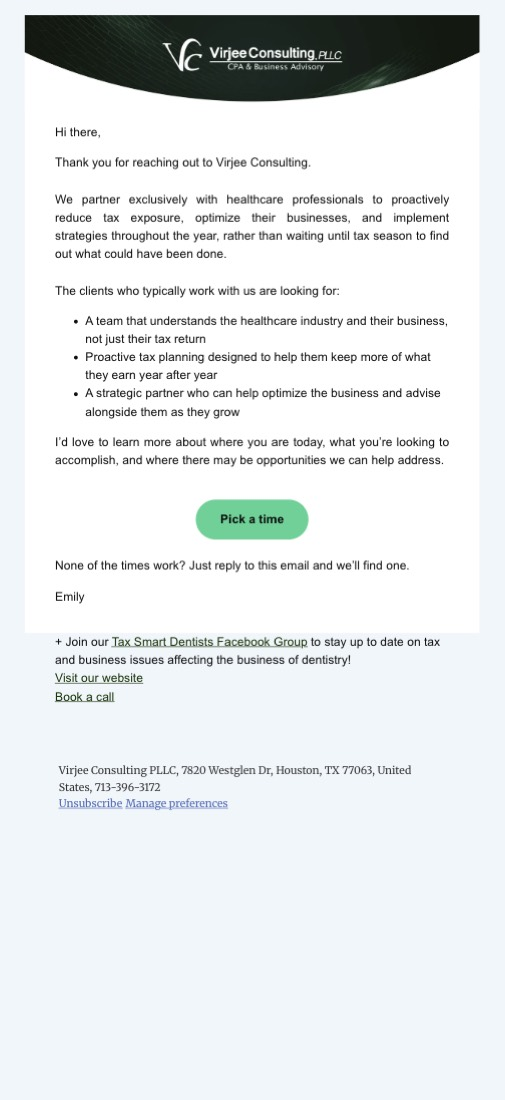
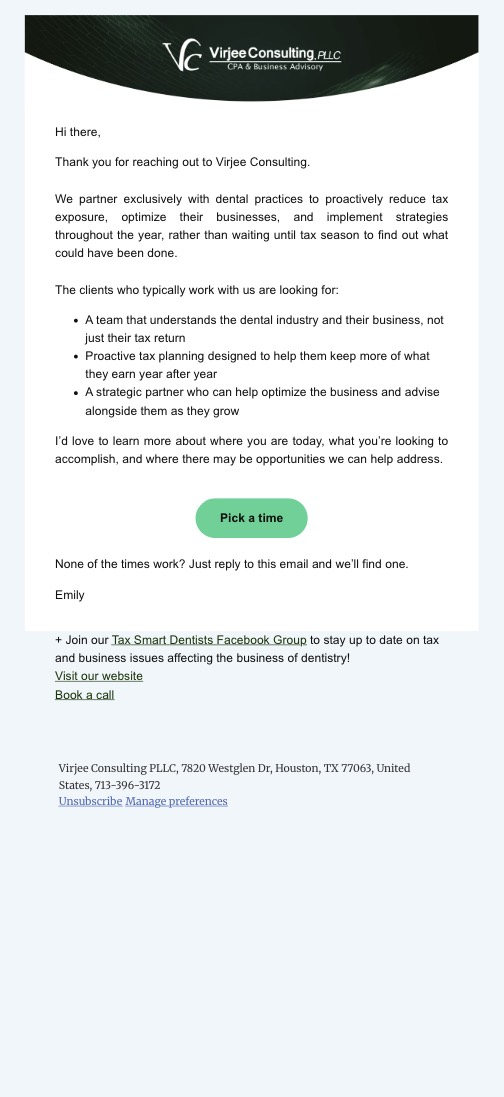
Virjee nurture map: Dr. Delaney email in dental + medical branches, subject fixes

diff --git a/virjee-consulting-dental/nurture-funnels/index.html b/virjee-consulting-dental/nurture-funnels/index.html
@@ -81,7 +81,7 @@ footer{color:var(--grey);font-size:13px;padding:30px 0 40px}
 <div class="stats">
 <div class="stat"><b>8</b><span>journeys switched on</span></div>
 <div class="stat"><b>3</b><span>built but switched off</span></div>
-<div class="stat"><b>40</b><span>emails shown</span></div>
+<div class="stat"><b>42</b><span>emails shown</span></div>
 <div class="stat gapc"><b>6</b><span>places people get nothing</span></div>
 </div>
 </div></div>
@@ -114,22 +114,23 @@ footer{color:var(--grey);font-size:13px;padding:30px 0 40px}
 <h2 class="group" id="gaps">Where people get nothing</h2>
 <div class="gaps">
 <div class="gapbox"><h3>1. Webinar registrants after the replay</h3><p>The Sept 30 replay went to 59 people. Nothing follows it, so a registrant who didn't book hears nothing until the next invite.</p><p class="fix">Fix: a short follow-up after each replay (one idea from the webinar, then a book-a-call email).</p></div>
-<div class="gapbox"><h3>2. Practice buyers</h3><p>The 4-email buying series is switched off. A buyer who fills in the form gets the general owner or startup emails instead, and only if they book.</p><p class="fix">Fix: turn on the buying series. It needs the empty table in email #2 fixed first.</p></div>
+<div class="gapbox"><h3>2. Practice buyers</h3><p>The 4-email buying series is switched off. Buyers are never offered a call, so a buyer who doesn't book gets nothing.</p><p class="fix">Agreed: turn it on as soon as the empty table in email #2 is fixed.</p></div>
 <div class="gapbox"><h3>3. Valuation calculator users</h3><p>Their first email thanks them for joining the mailing list. No email mentions their valuation or what to do with the number.</p><p class="fix">Fix: a first email about their result and a written valuation, then the existing series.</p></div>
 <div class="gapbox"><h3>4. After any series ends</h3><p>Every journey stops after its last email. The Law series even promises "our regular newsletter", but no newsletter is set up in HubSpot.</p><p class="fix">Fix: add everyone who finishes a series to a monthly newsletter list.</p></div>
-<div class="gapbox"><h3>5. Medical contacts</h3><p>The medical welcome is off, and a medical owner who books gets 2 emails where a dental owner gets 3.</p><p class="fix">Decision for Omar: keep nurturing medical leads, or leave them with Emily only.</p></div>
+<div class="gapbox"><h3>5. Medical contacts who don't book</h3><p>The medical welcome stays off on purpose. Medical owners and startups who book now get 3 emails, including Dr. Delaney's video, the same as dental owners.</p><p class="fix">Decided: leave the medical welcome off.</p></div>
 <div class="gapbox"><h3>6. Form filled, no call booked</h3><p>Emily's 4-email Book a Call follow-up catches these people once a deal is created. The 1-hour reminder we built is off so the two don't double up.</p><p class="fix">Decision for Omar and Emily: keep Emily's sequence alone, or add the 1-hour reminder in front of it.</p></div>
 </div>
 
-<h2 class="group">Copy to fix in emails that are live now</h2>
+<h2 class="group">Copy fixes in live emails</h2>
 <div class="scroll"><table class="copy">
-<tr><th>Email</th><th>What it says</th><th>Change</th></tr>
-<tr><td>Welcome - Local #1</td><td>"We'll be in touch within 24 hours"</td><td>Remove the time promise: "Someone from our team will reach out to set up a call."</td></tr>
-<tr><td>Booked - Medical owner #1</td><td>"our team (who work exclusively with dentists)"</td><td>Say "medical practices" or drop the line.</td></tr>
-<tr><td>Book a Call #1 (Emily)</td><td>"We partner exclusively with healthcare professionals"</td><td>Dental leads read this as "not dental-only". Say "dental practices".</td></tr>
-<tr><td>Book a Call #1 to #4 (Emily)</td><td>All four have the same subject line</td><td>Give each one its own subject so the later ones get opened.</td></tr>
-<tr><td>Booking nudge - No-Show</td><td>Subject "You're one step from booking your call" on an email about a missed call</td><td>Subject: "Sorry we missed you. Want to pick a new time?"</td></tr>
-<tr><td>Welcome - Vet #2</td><td>Subject says "for medical professionals"</td><td>Change to "for veterinarians".</td></tr>
+<tr><th>Email</th><th>What it said</th><th>Change</th><th>Status</th></tr>
+<tr><td>Welcome - Local #1</td><td>"We'll be in touch within 24 hours"</td><td>Remove the time promise: "Someone from our team will reach out to set up a call."</td><td>To do</td></tr>
+<tr><td>Booked - Medical owner #1</td><td>"our team (who work exclusively with dentists)"</td><td>Say "medical practices" or drop the line.</td><td>To do</td></tr>
+<tr><td>Book a Call #1 (Emily)</td><td>"We partner exclusively with healthcare professionals"</td><td>Now says "dental practices" and "dental industry".</td><td>Done</td></tr>
+<tr><td>Book a Call #1 to #4 (Emily)</td><td>All four have the same subject line</td><td>Now "Your call with Virjee Consulting", "Want a hand with your practice’s tax plan?", "Checking in about your call", "Should I close out your file?"</td><td>Done</td></tr>
+<tr><td>Booking nudge - No-Show</td><td>Subject "You're one step from booking your call" on an email about a missed call</td><td>Subject is now "Sorry we missed you. Want to pick a new time?"</td><td>Done</td></tr>
+<tr><td>Booked - Dental owner #3 (Dr. Delaney)</td><td>Video was a bare link; reviews line had no link</td><td>Video thumbnail, video link and Google reviews link added. Same email now sent to medical owners and startups.</td><td>Done</td></tr>
+<tr><td>Welcome - Vet #2</td><td>Subject says "for medical professionals"</td><td>Subject now says "for veterinarians".</td><td>Done</td></tr>
 </table></div>
 
 <footer>Prepared by Markology for Virjee Consulting, October 15, 2026. Source: Virjee HubSpot workflows and marketing emails, read live. Not shown: internal notifications, deal and owner automations, and contact-cleanup workflows.</footer>
@@ -142,13 +143,13 @@ const E={
 '397048978118':'Your call is booked ✅ Here’s what to expect','397048978121':'Dentist Hit with $75K Tax Bill: 5 Strategies We Used to Eliminate It','397048978124':'Dr. Sean Delaney, MD recorded this for you','397048978127':'📅 Your call is booked — Here’s what to expect','397055897326':'💡How one startup owner reduced $22,000 in taxes','397048978131':'Your call is booked ✅ Here’s what to expect','397048978134':'💡How a 1099 associate saved $18,000 in taxes','397055897331':'Your call is booked ✅ Here’s what to expect','397048978138':'Physician Hit with $75K Tax Bill: 5 Strategies We Used to Eliminate It','397048978141':'📅 Your call is booked — Here’s what to expect','397048978144':'💡How one startup owner reduced $22,000 in taxes',
 '397048979143':'Here’s Your Download! 👇','397048979147':'We’re glad you’re here! 👋','397065899725':'Which KPIs Should You Be Tracking? 🎥','397048979154':'How Much Is Your Dental Practice Worth?','397048979157':'How Can We Help?','397048979160':'7 Legal Tax Loopholes To Reduce Your Taxes 💸',
 '397055898307':'We’re glad you’re here','397065899708':'The biggest IOLTA accounting mistakes we see…','397048978157':'How to build a million-dollar Roth (yes, even as a high earner)','397065899712':'Can your next vacation be a tax write-off? 🏝',
-'397065899721':'We’re glad you’re here','397048979133':'7 legal tax loopholes for medical professionals 🩺','397048979137':'How to build a million-dollar Roth (yes, it’s possible) 💸','397065899715':'We look forward to chatting! 👋',
-'403053614800':'Virjee Consulting - Book a Call','403054161621':'Virjee Consulting - Book a Call','403053747908':'Virjee Consulting - Book a Call','403053616834':'Virjee Consulting - Book a Call','402953081532':'You’re one step from booking your call',
+'397065899721':'We’re glad you’re here','397048979133':'7 legal tax loopholes for veterinarians 🩺','397048979137':'How to build a million-dollar Roth (yes, it’s possible) 💸','397065899715':'We look forward to chatting! 👋',
+'403053614800':'Your call with Virjee Consulting','403054161621':'Want a hand with your practice’s tax plan?','403053747908':'Checking in about your call','403053616834':'Should I close out your file?','402953081532':'Sorry we missed you. Want to pick a new time?',
 '402122732231':'You’re one step from booking your call','397048978147':'🛑 Don’t buy a practice before watching this','397055897337':'How one dentist added $250k in equity','397055898300':'The most important metric when buying a practice','397055898304':'3 expensive mistakes we see buyers make',
 '397048978163':'We’re glad you’re here','397048978167':'7 legal tax loopholes for medical professionals 🩺','397065899718':'How to build a million-dollar Roth (yes, it’s possible) 💸',
-'401109556966':'This Wednesday: 7 tax rules to act on before Dec 31','407913808600':'Your replay: the 7 tax rules to act on before Dec 31'};
-const N={'397048978118':'Booked - Dental owner #1','397048978121':'Booked - Dental owner #2','397048978124':'Booked - Dental owner #3','397048978127':'Booked - Dental startup #1','397055897326':'Booked - Dental startup #2','397048978131':'Booked - 1099 associate #1','397048978134':'Booked - 1099 associate #2','397055897331':'Booked - Medical owner #1','397048978138':'Booked - Medical owner #2','397048978141':'Booked - Medical startup #1','397048978144':'Booked - Medical startup #2','397048979143':'eBook download #1','397048979147':'eBook nurture #1','397065899725':'eBook nurture #2','397048979154':'eBook nurture #3','397048979157':'eBook nurture #4','397048979160':'Valuation calculator #3','397055898307':'Welcome - Law #1','397065899708':'Welcome - Law #2','397048978157':'Welcome - Law #3','397065899712':'Welcome - Law #4','397065899721':'Welcome - Vet #1','397048979133':'Welcome - Vet #2','397048979137':'Welcome - Vet #3','397065899715':'Welcome - Local #1','403053614800':'Book a Call #1 (Emily)','403054161621':'Book a Call #2 (Emily)','403053747908':'Book a Call #3 (Emily)','403053616834':'Book a Call #4, last one (Emily)','402953081532':'Booking nudge - No-Show','402122732231':'Booking nudge - form, no call','397048978147':'Buying a practice #1','397055897337':'Buying a practice #2','397055898300':'Buying a practice #3','397055898304':'Buying a practice #4','397048978163':'Welcome - Medical #1','397048978167':'Welcome - Medical #2','397065899718':'Welcome - Medical #3','401109556966':'Sept 30 webinar invite','407913808600':'Sept 30 webinar replay'};
-const F={'397055897331':'Says "work exclusively with dentists" to a medical owner','403053614800':'Says "healthcare professionals" to dental leads','402953081532':'Subject doesn’t match a missed-call email','397065899715':'Promises a reply "within 24 hours"','397048979133':'Subject says "medical professionals" to vets','397055897337':'Comparison table shows no numbers','397065899712':'Promises a newsletter that isn’t set up','397048979147':'Valuation users get "thanks for joining our mailing list"'};
+'410836683477':'Dr. Sean Delaney, MD recorded this for you','410835841776':'Dr. Sean Delaney, MD recorded this for you','401109556966':'This Wednesday: 7 tax rules to act on before Dec 31','407913808600':'Your replay: the 7 tax rules to act on before Dec 31'};
+const N={'397048978118':'Booked - Dental owner #1','397048978121':'Booked - Dental owner #2','397048978124':'Booked - Dental owner #3','397048978127':'Booked - Dental startup #1','397055897326':'Booked - Dental startup #2','397048978131':'Booked - 1099 associate #1','397048978134':'Booked - 1099 associate #2','397055897331':'Booked - Medical owner #1','397048978138':'Booked - Medical owner #2','397048978141':'Booked - Medical startup #1','397048978144':'Booked - Medical startup #2','397048979143':'eBook download #1','397048979147':'eBook nurture #1','397065899725':'eBook nurture #2','397048979154':'eBook nurture #3','397048979157':'eBook nurture #4','397048979160':'Valuation calculator #3','397055898307':'Welcome - Law #1','397065899708':'Welcome - Law #2','397048978157':'Welcome - Law #3','397065899712':'Welcome - Law #4','397065899721':'Welcome - Vet #1','397048979133':'Welcome - Vet #2','397048979137':'Welcome - Vet #3','397065899715':'Welcome - Local #1','403053614800':'Book a Call #1 (Emily)','403054161621':'Book a Call #2 (Emily)','403053747908':'Book a Call #3 (Emily)','403053616834':'Book a Call #4, last one (Emily)','402953081532':'Booking nudge - No-Show','402122732231':'Booking nudge - form, no call','397048978147':'Buying a practice #1','397055897337':'Buying a practice #2','397055898300':'Buying a practice #3','397055898304':'Buying a practice #4','397048978163':'Welcome - Medical #1','397048978167':'Welcome - Medical #2','397065899718':'Welcome - Medical #3','410836683477':'Booked - Medical #3 (Dr. Delaney)','410835841776':'Booked - Dental owner #3 (Dr. Delaney)','401109556966':'Sept 30 webinar invite','407913808600':'Sept 30 webinar replay'};
+const F={'397055897331':'Says "work exclusively with dentists" to a medical owner','397065899715':'Promises a reply "within 24 hours"','397055897337':'Comparison table shows no numbers','397065899712':'Promises a newsletter that isn’t set up','397048979147':'Valuation users get "thanks for joining our mailing list"'};
 
 function card(id,when){const f=F[id]?`<span class="flag">${F[id]}</span>`:'';
 return `<div class="step"><span class="dot"></span><span class="when">${when}</span><button type="button" class="card" data-id="${id}"><div class="thumb"><img loading="lazy" src="img/${id}.jpg" alt="${N[id]} email preview"></div><div class="subj">${E[id]}<small>${N[id]}</small>${f}</div></button></div>`}
@@ -158,11 +159,11 @@ const pill=o.status==='on'?'<span class="pill on">Live</span>':o.status==='manua
 return `<section class="lane${o.status==='off'?' off':''}" id="${o.id}"><div class="lanehead"><h3>${o.title}</h3>${pill}</div><div class="trigger"><b>Who gets it:</b> ${o.who}</div>${steps}</section>`}
 
 const booked=[{id:'booked',title:'Books a call',status:'on',who:'Anyone who books a meeting in HubSpot. 20 people enrolled so far, 17 in the last 7 days.',branches:[
-{label:'Dental owner',note:'everyone not matched below',steps:[['397048978118','Day 0'],['397048978121','Day 1'],['397048978124','Day 2']]},
+{label:'Dental owner',note:'everyone not matched below',steps:[['397048978118','Day 0'],['397048978121','Day 1'],['410835841776','Day 2']]},
 {label:'Dental startup',note:'starting a practice',steps:[['397048978127','Day 0'],['397055897326','Day 1']]},
 {label:'1099 associate',note:'any industry',steps:[['397048978131','Day 0'],['397048978134','Day 1']]},
-{label:'Medical owner',steps:[['397055897331','Day 0'],['397048978138','Day 2']],end:'Series ends after 2 emails. Dental owners get a third.'},
-{label:'Medical startup',steps:[['397048978141','Day 0'],['397048978144','Day 1']]}]},
+{label:'Medical owner',steps:[['397055897331','Day 0'],['397048978138','Day 2'],['410836683477','Day 3']]},
+{label:'Medical startup',steps:[['397048978141','Day 0'],['397048978144','Day 1'],['410836683477','Day 2']]}]},
 {id:'emily',title:'Fills in the form but doesn’t book (Emily’s follow-up)',status:'on',who:'A new deal at New Lead or Qualified Opportunity. Each email is skipped once the deal moves forward. 95 enrolled so far. Business days only.',steps:[['403053614800','Day 0'],['403054161621','+2 business days'],['403053747908','+3 business days'],['403053616834','+4 business days']],end:'Deal closed out. Nothing else sends.'},
 {id:'noshow',title:'Misses a booked call',status:'on',who:'A meeting marked as a no-show. Emily also gets an internal alert.',steps:[['402953081532','Day 0']]}];
 
